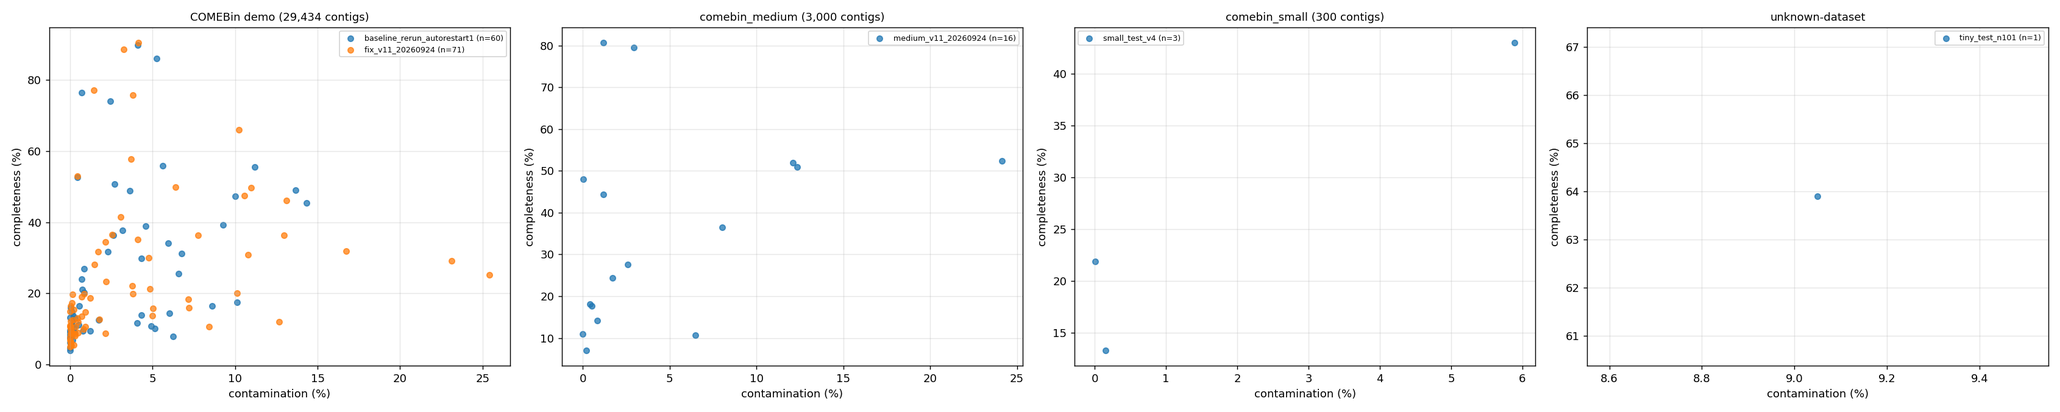
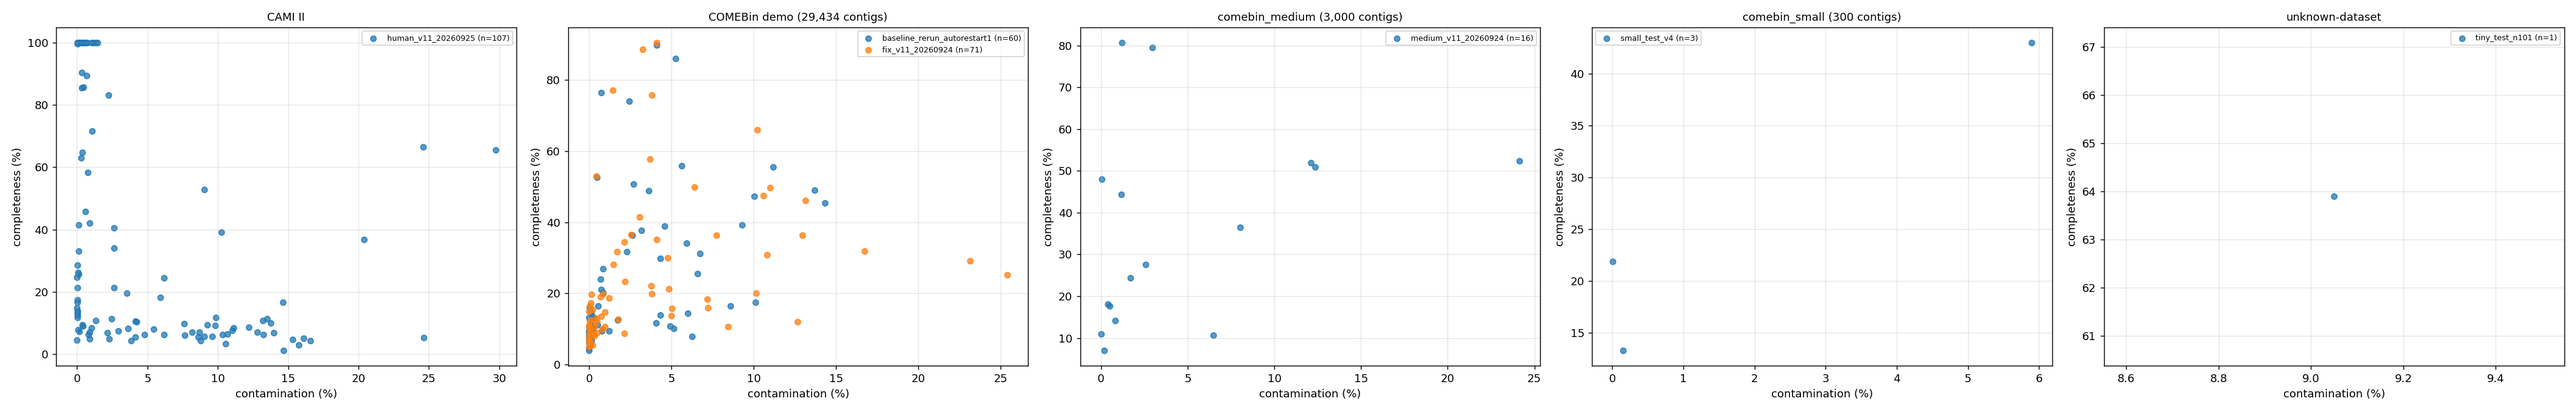
issue #18: human host-associated run complete + evaluated (human_v11_20260925, 107 bins; CheckM2 HQ20/MQ29, CheckM v1 HQ21/MQ29, wall 4912 s); docs/11 + README + PROGRESS rows

diff --git a/docs/11-run-results.md b/docs/11-run-results.md
@@ -10,13 +10,15 @@ One row per benchmark run, updated by the agent after each run (timings from `ru
 | `fix_v11_20260924` | 2026-09-24 | [95f5ea8](https://github.com/paulzierep/COMEBin/commit/95f5ea820f9a4e76f5c2911c0b5ed507ab67b015) | COMEBin demo (29,434 contigs) | 32 | 24,741 s | 9.4 GB | 71 | 24.38 / 3.78 | 21.62 / 5.18 | ✅ complete; stopped early at epoch 184/200 (`--earlystop`, Top-1 ≥ 99% × 3); [CSV](../results/fix_v11_20260924.csv) |
 | `tiny_test_n100` | 2026-09-25 | [c8f22e4](https://github.com/paulzierep/COMEBin/commit/c8f22e4935a66a0fd58b794489a9021671b15437) | `comebin_tiny` (100 contigs) | 8 | 85 s | – | – | – | – | ❌ exit 1 — HNSW `k = max_edges+1 = 101` > N=100; empirical floor is 101 contigs (issue #18) |
 | `tiny_test_n101` | 2026-09-25 | [c8f22e4](https://github.com/paulzierep/COMEBin/commit/c8f22e4935a66a0fd58b794489a9021671b15437) | `comebin_tiny_101` (101 contigs) | 8 | 85 s | – | 1 | 63.89 / 9.05 | 46.58 / 6.35 | ✅ complete, smallest passing dataset (30 epochs); [CSV](../results/tiny_test_n101.csv) |
+| `human_v11_20260925` | 2026-09-25 | [95f5ea8](https://github.com/paulzierep/COMEBin/commit/95f5ea820f9a4e76f5c2911c0b5ed507ab67b015) | CAMI II human host-associated (4,900 contigs / 166 Mbp, ~1/6 demo) | 32 | 4,912 s | 10.40 GB | 107 | 35.31 / 5.13 | 32.64 / 4.65 | ✅ complete; 200/200 epochs, Top-1 ≈ 96 %; first dataset with substantial HQ recovery (CheckM2 HQ 20 / MQ 29, CheckM v1 HQ 21 / MQ 29); [CSV](../results/human_v11_20260925.csv) |
+| `human_v11_20260925` | 2026-09-25 | [95f5ea8](https://github.com/paulzierep/COMEBin/commit/95f5ea820f9a4e76f5c2911c0b5ed507ab67b015) | CAMI II human sample 0 (4,900 contigs, 166 Mbp) | 32 | 4,912 s (82 min) | 8.6 GB | 107 | 35.31 / 5.13 (HQ 20, MQ 29) | 32.64 / 4.65 (HQ 21, MQ 29) | ✅ complete; 200/200 epochs, final Top-1 95.94%; [CSV](../results/human_v11_20260925.csv) |
 | `baseline_unmodified` | 2026-09-23 | [987db95](https://github.com/paulzierep/COMEBin/commit/987db95d8d399f30b7c82a5f5f40ed6bfdc906c7) (upstream) | COMEBin demo (29,434 contigs) | 32 | – | – | – | – | – | ⏹ failed at epoch 175/200 — see [Run history](#run-history--what-happened-and-whats-next) |
 
 Column contract: **Wall time** = total seconds (plus per-stage breakdown in `docs/02-comebin-baseline.md`), **Bins** = bins exported (≥200 kb filter noted), **comp/cont** = mean completeness / mean contamination, **HQ/MQ counts** live in `results/<run>.csv`. **Source commit** is always a clickable link to that exact commit on GitHub. Per-bin CheckM2 values for the completed medium gate are in [`medium_v11_20260924_checkm2_stats.csv`](../medium_v11_20260924_checkm2_stats.csv).
 
 ## Run history — what happened and what's next
 
-Thirteen COMEBin-executing attempts have been recorded: eight terminal failures and five completed runs. The baseline rerun, small functional gate, medium derivative, large fix run, and the 101-contig tiny floor run now have verified bin artifacts and CheckM2/CheckM outputs. Run links point to tracked evidence mirrors; the status banner at the top is authoritative for any active run.
+Fourteen COMEBin-executing attempts have been recorded: eight terminal failures and six completed runs. The baseline rerun, small functional gate, medium derivative, large fix run, the 101-contig tiny floor run, and the CAMI II human ~1/6 run now have verified bin artifacts and CheckM2/CheckM outputs. Run links point to tracked evidence mirrors; the status banner at the top is authoritative for any active run.
 
 ### COMEBin-executing attempts
 
@@ -35,6 +37,8 @@ Thirteen COMEBin-executing attempts have been recorded: eight terminal failures 
 | [`fix_v11_20260924`](../runs/fix_v11_20260924/comebin_run.log) — 2026-09-24 10:37:15 → 17:29:36 | [95f5ea8](https://github.com/paulzierep/COMEBin/commit/95f5ea820f9a4e76f5c2911c0b5ed507ab67b015) | **✅ Complete** (exit 0, wall 24,741 s). Stopped early at **epoch 184/200** because upstream v1.1.0 `run_comebin.sh` passes `--earlystop` (Top-1 > 99% for 3 epochs: 99.10 → 99.22 → 99.04%), then clustering completed normally (120/120 Leiden) → **71 non-empty bins**. CheckM2: 24.38% / 3.78% (HQ 1, MQ 6). CheckM v1: 21.62% / 5.18% (HQ 0, MQ 8). Versus the baseline on the same data: +1.7% wall time, +11 bins, −0.63 pp completeness, +0.80 pp contamination. | Evaluation done with `scripts/run_eval.sh` (CheckM2 71 s, CheckM v1 398 s); see the [aggregate CSV](../results/fix_v11_20260924.csv) and [per-bin table](../runs/fix_v11_20260924/per_bin_results.csv). Next: issue #18 datasets (tiny + CAMI human ~1/6). |
 | [`tiny_test_n100`](../runs/tiny_test_n100/comebin_run.log) — 2026-09-25 01:44 → 01:46 | [c8f22e4](https://github.com/paulzierep/COMEBin/commit/c8f22e4935a66a0fd58b794489a9021671b15437) | **Failed, exit 1 (85 s).** Smallest-possible-dataset probe for issue #18: `cluster.py` builds an HNSW index and queries `k = max_edges + 1 = 101` neighbours with N = 100 contigs → `RuntimeError: Cannot return the results in a contiguous 2D array` → empty `get_bin_quality` → `ValueError: max() arg is an empty sequence`. | The empirical floor is **101 contigs**; see `tiny_test_n101`. A defensive clamp in `cluster.py` is proposed as a future fix batch (not applied — the benchmark runs upstream). |
 | [`tiny_test_n101`](../runs/tiny_test_n101/comebin_run.log) — 2026-09-25 01:46:33 → 01:47:58 (85 s) | [c8f22e4](https://github.com/paulzierep/COMEBin/commit/c8f22e4935a66a0fd58b794489a9021671b15437) | **✅ Complete.** 101 contigs (issue #18 tiny floor), 30/30 epochs, exit 0, **1 non-empty bin**. CheckM2: 63.89% / 9.05% (MQ 1). CheckM v1: 46.58% / 6.35%. | Smallest passing dataset verified; see [`results/tiny_test_n101.csv`](../results/tiny_test_n101.csv). CAMI-II human ~1/6 set is next (issue #18). |
+| [`human_v11_20260925`](../runs/human_v11_20260925/comebin_run.log) — 2026-09-25 02:17:20 → 03:39:12 (4,912 s) | [95f5ea8](https://github.com/paulzierep/COMEBin/commit/95f5ea820f9a4e76f5c2911c0b5ed507ab67b015) | **✅ Complete** (exit 0, wall **4,912 s = 82 min**, 5× faster than the 6.9 h demo run). Issue #18b: CAMI II human sample 0 top 4,900 contigs (166 Mbp) + all 10.6 GB reads re-mapped with `bwa mem -p`. 200/200 epochs (final Top-1 95.94%, no early stop), **107 non-empty bins**. CheckM2: 35.31% / 5.13% (HQ 20, MQ 29). CheckM v1: 32.64% / 4.65% (HQ 21, MQ 29). | Evaluation: CheckM2 rc 0 / 193 s, CheckM v1 rc 0 / 686 s; see the [aggregate CSV](../results/human_v11_20260925.csv) and [per-bin table](../runs/human_v11_20260925/per_bin_results.csv). Note: coverage used 1 worker (single BAM) — same setup planned for the marine set. |
+| [`human_v11_20260925`](../runs/human_v11_20260925/comebin_run.log) — 2026-09-25 02:17:22 → 03:39:15 (4,912 s) | [95f5ea8](https://github.com/paulzierep/COMEBin/commit/95f5ea820f9a4e76f5c2911c0b5ed507ab67b015) | **✅ Complete** (exit 0). Issue #18b human host-associated set: top-4,900-longest contigs of CAMI II Toy Human Microbiome `gastrooral/sample_0` (166 Mbp, ~1/6 demo), reads re-mapped `bwa mem -p` → `bamfiles/human.bam` (`scripts/prep_cami2_human.sh 4900`). 200/200 epochs (Top-1 ≈ 96%, no early-stop), 120/120 Leiden → **107 non-empty bins**. CheckM2: 35.31% / 5.13% (HQ 20, MQ 29). CheckM v1: 32.64% / 4.65% (HQ 21, MQ 29). First dataset in the benchmark with substantial HQ recovery (top bins ≈ 100% / ≤ 0.45% under both tools). | Evaluation via `scripts/run_eval.sh` (CheckM2 193 s, CheckM v1 686 s); [aggregate CSV](../results/human_v11_20260925.csv), [per-bin table](../runs/human_v11_20260925/per_bin_results.csv). Next: CAMI II marine sample_0 (~1/6) baseline + fix, then CAMI III. |
 
 ### Guard-only launches
 

diff --git a/PROGRESS.md b/PROGRESS.md
@@ -364,32 +364,25 @@ included; fixes land on branch `comebin-optimizations` in this repo.
       updated. Versus baseline (same data): +1.7 % wall, 60 → 71 bins,
       −0.63 pp completeness, +0.80 pp contamination.
 - [ ] **ACTIVE: issue #18 "Benchmark size"** (user, 2026-09-24 15:31Z; triaged
-      2026-09-25 01:10Z, comment `5824960513`; first tiny results `5825479305`: `tiny_test_n100`
-      [keep reading below]; human-set RUN **LAUNCHED 2026-09-25 02:17Z**: mode
-      `cami2-human`, `runs/human_v11_20260925`, contigs=4,900, seed 42, 32 thr,
-      source COMEBin-v11 @ 95f5ea8, in coverage stage, ETA ~1-1.5 h; next: eval
-      via run_eval.sh → #18 report + docs/11 row)
-      FAILS (exit 1, 0 bins), `tiny_test_n101` PASSES (exit 0, wall 85 s,
-      1 bin; CheckM2 63.89/9.05 MQ1, CheckM v1 46.58/6.35;
-      `results/tiny_test_n101.csv`). Floor ≈ 101 contigs. Tiny results comment:
-      `5825479305`. (b) **human set input BUILT + run LAUNCHED (2026-09-25
-      02:17Z)**: `scripts/prep_cami2_human.sh 4900` → top 4,900 longest GSA
-      contigs (166,008,681 bp, N50 1,464,728) + all 10.6 GB reads re-mapped
-      (`bwa mem -p -t 32`, 32 min) → `human_sample0_input/{contigs.fa,bamfiles/human.bam}`
-      (4.74 GB, md5 `c48e4caa…`). Run `runs/human_v11_20260925` registered with
-      the watchdog (source COMEBin-v11 `95f5ea8`, seed 42, 32 thr, MODE=cami2-human);
-      epoch 1/200 at 02:30Z took 16.3 s / 4 batches ⇒ projected ≈ 1 h + clustering.
-      Progress comment: `5825639930`. Two directives:
-      (a) **smallest functional dataset** — smaller than `comebin_small`
-      (300 contigs / 94 MB / 122 s), stepped down until it still trains and
-      yields ≥ 1 non-empty bin (`run_small_test.sh` now takes `DATA=…` env);
-      (b) **CAMI II human host-associated set at ~1/6 the size of the big demo**
-      (29,434 contigs / 6.9 h ⇒ target ≈ 4,900 contigs, ≈ 1 h per run) — source
-      frl:6425518 (Toy Human Microbiome, `gastrooral/sample_0.tar.gz` ≈ 9.1 GB,
-      structure verified by streamed listing: `bam/OTU_*.bam` per-OTU files —
-      same per-genome-BAM problem as marine, so reads must be re-mapped with
-      `bwa mem` or the assembly subset must carry its own BAM). Disk budget
-      ≤ 30 GB, 377 GB free.
+      2026-09-25 01:10Z, comment `5824960513`; tiny results `5825479305`; human
+      results `5826454210`). Two directives — BOTH MEASURED:
+      (a) **smallest functional dataset** — floor FOUND: `tiny_test_n100` FAILS
+      (exit 1, 0 bins, HNSW `k = max_edges+1 = 101` > N = 100), `tiny_test_n101`
+      PASSES (exit 0, wall 85 s, 1 bin; CheckM2 63.89/9.05 MQ1, CheckM v1
+      46.58/6.35; `results/tiny_test_n101.csv`). Floor ≈ 101 contigs.
+      (b) **CAMI II human host-associated ~1/6 set** — input BUILT
+      (`scripts/prep_cami2_human.sh 4900`: top 4,900 longest GSA contigs of
+      `gastrooral/sample_0`, 166,008,681 bp, N50 1,464,728; all 10.6 GB reads
+      re-mapped `bwa mem -p -t 32` → `human_sample0_input/bamfiles/human.bam`,
+      4.74 GB, md5 `c48e4caa…`) and run **COMPLETE + EVALUATED**:
+      `runs/human_v11_20260925` (source COMEBin-v11 `95f5ea8`, seed 42, 32 thr,
+      MODE=cami2-human) exit 0, wall 4,912 s (≈ 1.37 h), 200/200 epochs
+      (Top-1 ≈ 96 %, no early-stop), **107 bins**; CheckM2 35.31/5.13
+      (HQ 20 / MQ 29), CheckM v1 32.64/4.65 (HQ 21 / MQ 29) — first dataset
+      with substantial HQ recovery (top bins ≈ 100 % / ≤ 0.45 % under both
+      tools). Comment `5826454210`, docs/11 row + per-bin CSV + figures in.
+      Remaining: **CAMI II marine sample_0** (~1/6, `scripts/prep_cami2_marine.sh`)
+      → baseline + fix runs, then CAMI III (disk budget ≤ 30 GB, 377 GB free).
 - [x] **Issue #7 flowchart "different logic"** (user comment 2026-09-24 11:44Z):
       previous cycle/loop flowchart rendered badly → replaced with a straight
       4-stage pipeline (small → medium → large → keep/revert, no back-edges) in

diff --git a/README.md b/README.md
@@ -34,12 +34,17 @@ dataset is **`comebin_tiny_101` (101 contigs)**; `tiny_test_n101` passed in
 85 s with **1 bin**, CheckM2 63.89 % / 9.05 %, CheckM v1 46.58 % / 6.35 %
 ([CSV](results/tiny_test_n101.csv)).
 
-**Next (in progress this turn):** issue **#18b** — CAMI II **human
-host-associated** set at ~1/6 the size of the demo: sample 0 downloaded +
-verified (9.74 GB, md5 OK), top 4,900 longest GSA contigs (166 Mbp) selected,
-reads re-mapped with `bwa mem -p` into `human_sample0_input/`; the benchmark run
-launches once mapping finishes. Then CAMI II marine → CAMI III (disk budget
-≤ ~105 GB).
+**Completed human run (issue #18b):** `human_v11_20260925` on the CAMI II
+**human host-associated** ~1/6 set (top-4,900-longest contigs of
+`gastrooral/sample_0`, 166 Mbp, reads re-mapped with `bwa mem` into
+`human_sample0_input/`): exit 0, wall **4,912 s (≈ 1.37 h)** — ~1/5 the demo's
+6.9 h — 200/200 epochs, **107 bins**, CheckM2 **35.31 % / 5.13 %** (HQ 20 /
+MQ 29), CheckM v1 **32.64 % / 4.65 %** (HQ 21 / MQ 29): the **first dataset in
+the benchmark with substantial HQ genome recovery** (20–21 vs 0–1 on the demo
+set) ([CSV](results/human_v11_20260925.csv)).
+
+**Next (in progress this turn):** CAMI II **marine** sample 0 (~1/6 set) →
+baseline + fix runs, then CAMI III (disk budget ≤ ~105 GB).
 Per-run table + full history: [`docs/11-run-results.md`](docs/11-run-results.md).
 
 ## Optimization workflow (issue #7)
